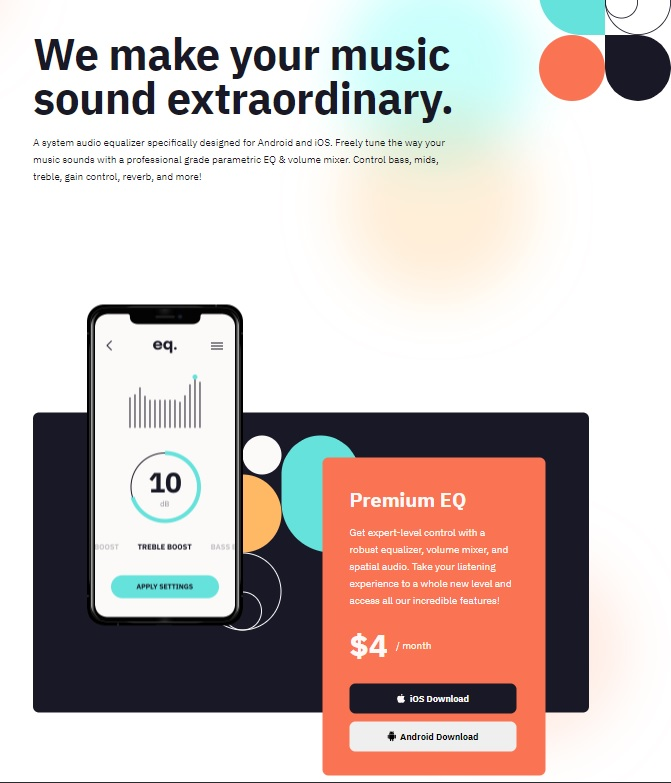
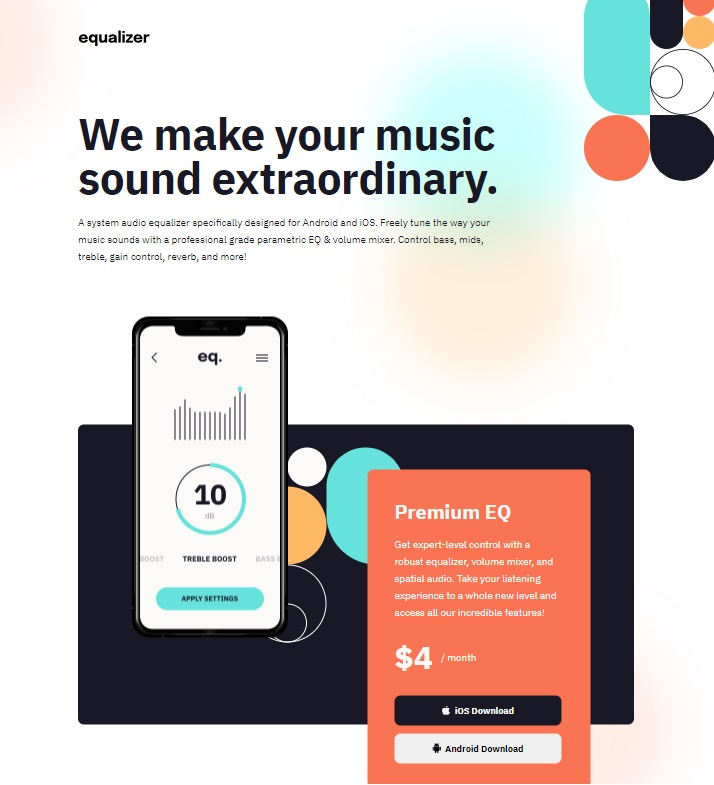
Corrected margin height in hero section v.1.1

diff --git a/css/main.min.css b/css/main.min.css
@@ -274,6 +274,7 @@
     font-size: 1.25rem;
     line-height: 1.7;
     max-width: 825px;
+    margin-bottom: 0;
   }
 }
 .wrapper {

diff --git a/sass/components/_hero.scss b/sass/components/_hero.scss
@@ -41,5 +41,6 @@
     font-size: $fs-primary-125;
     line-height: 1.7;
     max-width: 825px;
+    margin-bottom: 0;
   }
 }
